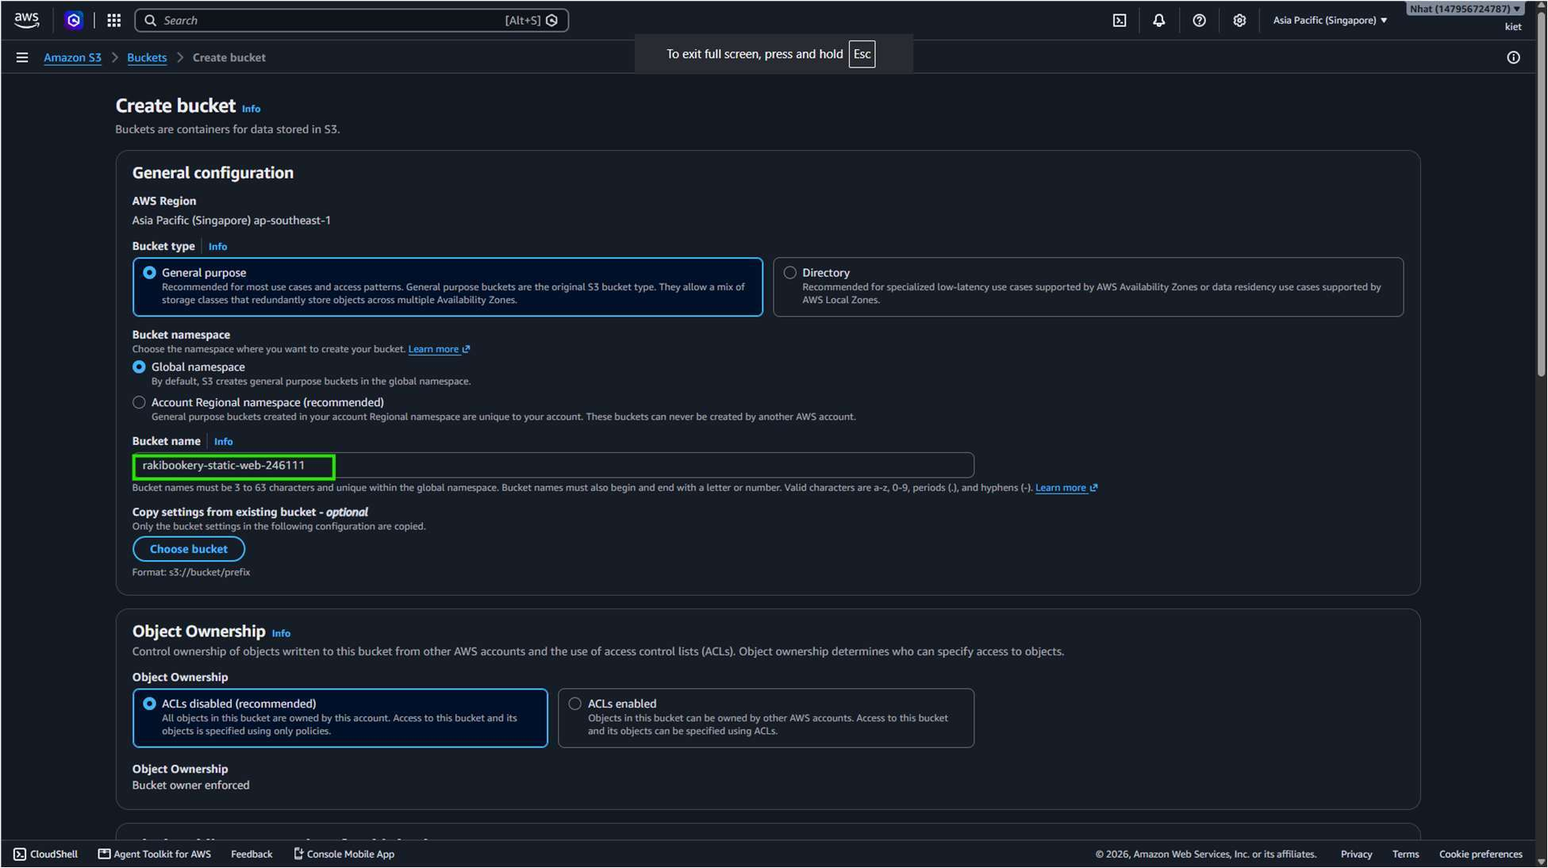
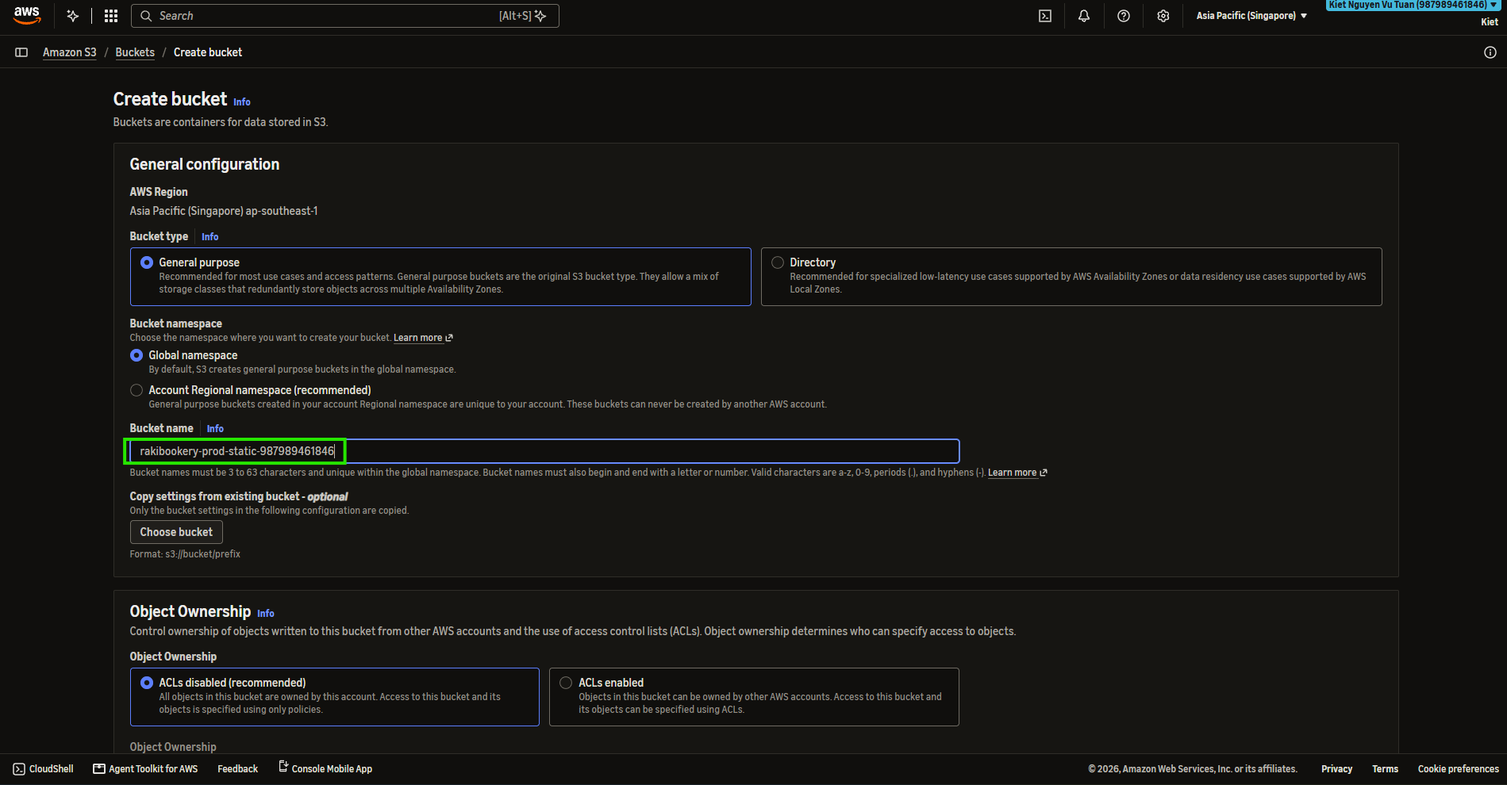
fix 5.3.3

Changed region(s): [[0.0, 0.0, 1.0, 1.0]]

diff --git a/content/5-Workshop/5.3-Infrastructure/5.3.3-Set-Up-S3/_index.vi.md b/content/5-Workshop/5.3-Infrastructure/5.3.3-Set-Up-S3/_index.vi.md
@@ -8,45 +8,58 @@ pre : " <b> 5.3.3 </b> "
 
 ### Mục tiêu
 
-Tổ chức lưu trữ trên Amazon S3 cho ba loại dữ liệu của RakiBookery tại Singapore (`ap-southeast-1`).
+Nhóm cấu hình Amazon S3 tại Singapore (`ap-southeast-1`) để lưu tệp tĩnh, ảnh và nhật ký của RakiBookery. Nhóm dùng ba bucket riêng để đặt quyền truy cập phù hợp với từng loại dữ liệu.
 
-### Cần chuẩn bị
+## Kiến trúc tổng quan
 
-Dùng danh tính triển khai đã được duyệt ở [mục 5.3.1]({{< relref "/5-Workshop/5.3-Infrastructure/5.3.1-Set-Up-IAM/" >}}). Khi dựng lại môi trường, chọn tên bucket còn khả dụng tại thời điểm tạo.
+- **Media** (`rakibookery-prod-media-987989461846`) lưu ảnh của nhà sách. Bucket bật Versioning để giữ các phiên bản trước của object khi ghi đè.
+- **Static** (`rakibookery-prod-static-987989461846`) lưu tài nguyên tĩnh của website. CloudFront có thể đọc tệp qua Origin Access Control (OAC) và bucket policy. Phần cấu hình origin được trình bày ở [mục 5.4.4]({{< relref "/5-Workshop/5.4-Deployment/5.4.4-Cloudfont-and-R53/" >}}).
+- **Logs** (`rakibookery-prod-logs-987989461846`) dành cho tệp nhật ký. Tệp xuất hiện khi dịch vụ gửi log đã được cấu hình đích và cấp quyền ghi.
 
-Nhóm dùng bucket riêng vì mỗi loại tệp có mục đích và thành phần truy cập khác nhau. CloudFront đọc tệp tĩnh qua OAC. Hàm xử lý ảnh đọc ảnh tải lên và ghi ảnh thu nhỏ trong bucket Media. Bucket Logs nhận tệp từ các nguồn ghi log đã được bật. Trước khi tích hợp, nhóm đối chiếu tên bucket thực tế trong Console của dự án.
+## 1. Tạo các bucket
 
-### Cấu hình triển khai
+Dùng danh tính triển khai có quyền phù hợp ở [mục 5.3.1]({{< relref "/5-Workshop/5.3-Infrastructure/5.3.1-Set-Up-IAM/" >}}). Trong **Amazon S3 → General purpose buckets → Create bucket**, chọn Region **Asia Pacific (Singapore)**, loại **General purpose** và **Global namespace** như trong ảnh. Nhập tên từng bucket. Khi dựng lại, dùng tên còn khả dụng trong namespace đã chọn. [Tài liệu AWS về cách đặt tên bucket](https://docs.aws.amazon.com/AmazonS3/latest/userguide/bucketnamingrules.html)
 
-1. Trong **S3 → General purpose buckets**, tạo `rakibookery-static-web-246111` cho tài nguyên tĩnh, `rakibookery-logs-246111` cho nhật ký và `rakibookery-media-246111` cho ảnh bìa sách, banner và tệp media.
-2. Chọn **General purpose**, giữ **ACLs disabled (Bucket owner enforced)** và **Block all public access** cho cả ba bucket.
+Ở **Object Ownership**, giữ **ACLs disabled (Bucket owner enforced)** để quản lý quyền bằng policy. Giữ **Block all public access** để chặn truy cập công khai trực tiếp. CloudFront có thể đọc bucket Static theo bucket policy ở bước tích hợp. [Tài liệu AWS về Object Ownership](https://docs.aws.amazon.com/AmazonS3/latest/userguide/about-object-ownership.html)
 
-![Tạo bucket Media ở Singapore](../../../../images/5-Workshop/5.3-Infrastructure/5.3.3-Set-Up-S3/01-s3-media-creation.png)
+### Bucket Media
 
-![Tên bucket Static Web, Region Singapore và ACLs disabled trong báo cáo nguồn](../../../../images/5-Workshop/5.3-Infrastructure/5.3.3-Set-Up-S3/02-s3-static-creation.png)
+Nhập `rakibookery-prod-media-987989461846`. Màn hình tạo bucket ghi nhận Region Singapore và **ACLs disabled**. Trước khi lưu cấu hình của Media, chọn thêm **Bucket Versioning → Enable** như ở bước 2.
 
-![Tên bucket Logs và ACLs disabled trong báo cáo nguồn](../../../../images/5-Workshop/5.3-Infrastructure/5.3.3-Set-Up-S3/03-s3-logs-creation.png)
+![Tạo bucket Media ở Singapore với ACLs disabled](../../../../images/5-Workshop/5.3-Infrastructure/5.3.3-Set-Up-S3/01-s3-media-creation.png)
 
-3. Bật **Bucket Versioning** cho Media để giữ các phiên bản object khi ghi đè.
+### Bucket Static
 
-![Block all public access và Versioning được chọn cho Media](../../../../images/5-Workshop/5.3-Infrastructure/5.3.3-Set-Up-S3/04-s3-media-versioning.png)
+Nhập `rakibookery-prod-static-987989461846` và giữ **ACLs disabled**. Sau khi tạo, dùng tên bucket này khi kiểm tra S3 origin của CloudFront.
 
-Danh sách bucket trong phần triển khai CloudFront ghi nhận đủ ba bucket RakiBookery tại Singapore. Các tên này khớp với báo cáo S3 và bucket Media dùng cho hàm xử lý ảnh.
+![Tên bucket Static và Object Ownership trong màn hình Create bucket](../../../../images/5-Workshop/5.3-Infrastructure/5.3.3-Set-Up-S3/02-s3-static-creation.png)
 
-![Danh sách đã lưu có ba bucket Static Web, Logs và Media tại Singapore](../../../../images/5-Workshop/5.3-Infrastructure/5.3.3-Set-Up-S3/05-s3-project-bucket-list.png)
+### Bucket Logs
 
+Nhập `rakibookery-prod-logs-987989461846` và giữ **ACLs disabled** theo cấu hình trong ảnh. Bucket này là đích lưu trữ. Cấu hình gửi log được thực hiện ở dịch vụ tạo log.
 
-### Kết quả và kiểm tra
+![Tên bucket Logs và Object Ownership trong màn hình Create bucket](../../../../images/5-Workshop/5.3-Infrastructure/5.3.3-Set-Up-S3/03-s3-logs-creation.png)
 
-Báo cáo S3 có các màn hình tạo ba bucket và thao tác chọn Versioning cho Media. Khi nghiệm thu, đối chiếu **Permissions** và **Properties**. Kiểm tra sau tích hợp bằng cách mở tệp tĩnh qua CloudFront, xác nhận ảnh tải lên Media và log xuất hiện trong Logs khi dịch vụ gửi log đã được cấu hình.
+## 2. Bật và xác nhận Versioning cho Media
 
-Tài liệu kiểm thử Lambda còn ghi nhận các tệp đã tải vào `images/` của bucket Media. Ảnh này xác nhận bucket đã lưu object tại thời điểm chạy thử.
+Trong màn hình **Create bucket** của Media, ảnh ghi nhận **Block all public access** đang được chọn và **Bucket Versioning** đặt thành **Enable**.
 
-![Các object ảnh đã được tải vào bucket Media của RakiBookery](../../../../images/5-Workshop/5.3-Infrastructure/5.3.3-Set-Up-S3/06-s3-media-uploaded-objects.png)
+![Chọn Block all public access và Enable Versioning khi tạo bucket Media](../../../../images/5-Workshop/5.3-Infrastructure/5.3.3-Set-Up-S3/04-s3-media-versioning.png)
 
-Dùng danh tính đã được duyệt để tải lần lượt hai tệp thử lên cùng object key trong bucket Media. Trong **Objects**, bật **Show versions** và kiểm tra S3 hiển thị hai version ID. Với tệp tĩnh, kiểm tra object có trong bucket rồi truy cập qua CloudFront sau mục 5.4.4. Với bucket Logs, kiểm tra tệp log thật sau khi cấu hình dịch vụ gửi log.
+## 3. Kiểm tra kết quả
 
+Danh sách **General purpose buckets** hiển thị đủ ba bucket Media, Static và Logs ở `ap-southeast-1`.
 
-### Kết luận
+![Danh sách ba bucket Media, Static và Logs ở Singapore](../../../../images/5-Workshop/5.3-Infrastructure/5.3.3-Set-Up-S3/05-s3-project-bucket-list.png)
 
-Ba bucket đảm nhiệm ba luồng dữ liệu riêng. Cấu hình chặn truy cập công khai được duy trì, và Versioning hỗ trợ lấy lại phiên bản trước của tệp media.
+Sau khi tạo, nhóm mở **Media → Properties → Bucket Versioning**. Console hiển thị **Enabled**, xác nhận cấu hình đã được lưu. Khi tải nội dung mới lên cùng object key, S3 tạo một phiên bản mới và giữ phiên bản trước. [Tài liệu AWS về S3 Versioning](https://docs.aws.amazon.com/AmazonS3/latest/userguide/Versioning.html)
+
+![Trang Properties của bucket Media ghi Bucket Versioning Enabled](../../../../images/5-Workshop/5.3-Infrastructure/5.3.3-Set-Up-S3/06-s3-media-versioning-enabled.png)
+
+- **Media.** Để kiểm tra Versioning, tải hai tệp có nội dung khác nhau lên cùng key thử, chẳng hạn `versioning-check/sample.txt`. Bật **Show versions** trong tab **Objects** và kiểm tra hai version ID. Kiểm tra trigger xử lý ảnh ở [mục 5.5.2]({{< relref "/5-Workshop/5.5-Serverless/5.5.2-Lambda-Functions/" >}}).
+- **Static.** Sau khi gắn origin, mở một tệp tĩnh qua URL CloudFront để kiểm tra quyền đọc.
+- **Logs.** Sau khi cấu hình dịch vụ gửi log, mở bucket Logs và kiểm tra object ở prefix đã chọn.
+
+## Kết luận
+
+Nhóm đã tạo ba bucket S3 của RakiBookery tại Singapore. Màn hình **Properties** xác nhận bucket Media đã bật Versioning. Các bucket được dùng cho từng nhóm dữ liệu và là đầu vào khi cấu hình CloudFront, xử lý ảnh và chuyển nhật ký.

diff --git a/content/5-Workshop/5.3-Infrastructure/5.3.3-Set-Up-S3/_index.md b/content/5-Workshop/5.3-Infrastructure/5.3.3-Set-Up-S3/_index.md
@@ -8,44 +8,58 @@ pre : " <b> 5.3.3 </b> "
 
 ### Objective
 
-Our goal is to use Amazon S3 to store three types of RakiBookery data in Singapore (`ap-southeast-1`).
+We set up Amazon S3 in Singapore (`ap-southeast-1`) to store static files, images, and logs for RakiBookery. We use three separate buckets so each type of data can have the access it needs.
 
-### What we need
+## Architecture overview
 
-Use the approved deployment identity from [section 5.3.1]({{< relref "/5-Workshop/5.3-Infrastructure/5.3.1-Set-Up-IAM/" >}}). When setting up a new environment, choose bucket names that are available when you create the buckets.
+- **Media** (`rakibookery-prod-media-987989461846`) stores bookstore images. The bucket uses Versioning to keep earlier versions when we replace an object.
+- **Static** (`rakibookery-prod-static-987989461846`) stores static files for the website. CloudFront can read the files through Origin Access Control (OAC) and a bucket policy. The origin setup is in [section 5.4.4]({{< relref "/5-Workshop/5.4-Deployment/5.4.4-Cloudfont-and-R53/" >}}).
+- **Logs** (`rakibookery-prod-logs-987989461846`) is for log files. Files appear after we configure the service that sends the logs and give it permission to write.
 
-We use separate buckets because each type of file has a different use and needs different access. CloudFront reads static files through OAC. The image function reads uploads and writes thumbnails in the Media bucket. The Logs bucket stores logs from the sources that we turn on. Check the real bucket names in the project's Console before connecting any of these services.
+## 1. Create the buckets
 
-### Deployment setup
+Use a deployment identity with the permissions described in [section 5.3.1]({{< relref "/5-Workshop/5.3-Infrastructure/5.3.1-Set-Up-IAM/" >}}). In **Amazon S3 → General purpose buckets → Create bucket**, select **Asia Pacific (Singapore)**, **General purpose**, and **Global namespace** as shown in the screenshots. Enter each bucket name. If you repeat the setup, use a name that is available in the selected namespace. [AWS guide to bucket naming rules](https://docs.aws.amazon.com/AmazonS3/latest/userguide/bucketnamingrules.html)
 
-1. In **S3 → General purpose buckets**, create `rakibookery-static-web-246111` for static files, `rakibookery-logs-246111` for logs, and `rakibookery-media-246111` for book covers, banners, and other media files.
-2. Choose **General purpose**. Keep **ACLs disabled (Bucket owner enforced)** and **Block all public access** for all three buckets.
+Under **Object Ownership**, keep **ACLs disabled (Bucket owner enforced)** so access is managed through policies. Keep **Block all public access** on to block direct public access. CloudFront can read the Static bucket through the bucket policy after integration. [AWS guide to Object Ownership](https://docs.aws.amazon.com/AmazonS3/latest/userguide/about-object-ownership.html)
 
-![Creating the Media bucket in Singapore](../../../images/5-Workshop/5.3-Infrastructure/5.3.3-Set-Up-S3/01-s3-media-creation.png)
+### Media bucket
 
-![Static Web bucket name, Singapore Region, and ACLs disabled in the source report](../../../images/5-Workshop/5.3-Infrastructure/5.3.3-Set-Up-S3/02-s3-static-creation.png)
+Enter `rakibookery-prod-media-987989461846`. The creation screen shows the Singapore Region and **ACLs disabled**. Before saving the Media bucket, select **Bucket Versioning → Enable** as shown in step 2.
 
-![Logs bucket name and ACLs disabled in the source report](../../../images/5-Workshop/5.3-Infrastructure/5.3.3-Set-Up-S3/03-s3-logs-creation.png)
+![Creating the Media bucket in Singapore with ACLs disabled](../../../images/5-Workshop/5.3-Infrastructure/5.3.3-Set-Up-S3/01-s3-media-creation.png)
 
-3. Turn on **Bucket Versioning** for Media so earlier versions stay available when you replace an object.
+### Static bucket
 
-![Block all public access and Versioning for the Media bucket](../../../images/5-Workshop/5.3-Infrastructure/5.3.3-Set-Up-S3/04-s3-media-versioning.png)
+Enter `rakibookery-prod-static-987989461846` and keep **ACLs disabled**. After creating the bucket, use this name when checking the CloudFront S3 origin.
 
-The bucket list from the CloudFront setup shows all three RakiBookery buckets in Singapore. Their names match the S3 report and the Media bucket used by the image function.
+![Static bucket name and Object Ownership on the Create bucket screen](../../../images/5-Workshop/5.3-Infrastructure/5.3.3-Set-Up-S3/02-s3-static-creation.png)
 
-![The saved bucket list shows Static Web, Logs, and Media in Singapore](../../../images/5-Workshop/5.3-Infrastructure/5.3.3-Set-Up-S3/05-s3-project-bucket-list.png)
+### Logs bucket
 
-### Results and checks
+Enter `rakibookery-prod-logs-987989461846` and keep **ACLs disabled** as shown. This bucket is the storage destination. Set up log delivery in the service that creates the logs.
 
-The S3 report shows the creation forms for the three buckets and the Versioning option selected for Media. For the final check, review **Permissions** and **Properties**. After you connect the services, open a static file through CloudFront and check that uploaded images appear in Media. Check that logs appear in Logs after you set up the service that sends them.
+![Logs bucket name and Object Ownership on the Create bucket screen](../../../images/5-Workshop/5.3-Infrastructure/5.3.3-Set-Up-S3/03-s3-logs-creation.png)
 
-The Lambda test document also shows uploaded files under `images/` in the Media bucket. This confirms that the bucket had stored objects at the time of the test.
+## 2. Enable and check Versioning for Media
 
-![Uploaded image objects in the RakiBookery Media bucket](../../../images/5-Workshop/5.3-Infrastructure/5.3.3-Set-Up-S3/06-s3-media-uploaded-objects.png)
+On the Media bucket creation screen, **Block all public access** is selected and **Bucket Versioning** is set to **Enable**.
 
-Use an approved identity to upload two test files in sequence with the same object key in the Media bucket. In **Objects**, turn on **Show versions** and check that S3 shows two version IDs. For a static file, check first that it exists in the bucket. Then request it through CloudFront after section 5.4.4. For the Logs bucket, check for a real log object after setting up the service that sends logs.
+![Block all public access and Enable Versioning selected when creating the Media bucket](../../../images/5-Workshop/5.3-Infrastructure/5.3.3-Set-Up-S3/04-s3-media-versioning.png)
 
+## 3. Check the result
 
-### Conclusion
+The **General purpose buckets** list shows all three buckets, Media, Static, and Logs, in `ap-southeast-1`.
 
-We use each bucket for a different type of file. We keep public access blocked. With Versioning, we can recover an earlier version of a media file.
+![Media, Static, and Logs buckets listed in Singapore](../../../images/5-Workshop/5.3-Infrastructure/5.3.3-Set-Up-S3/05-s3-project-bucket-list.png)
+
+After creating the bucket, we open **Media → Properties → Bucket Versioning**. The console shows **Enabled**, which confirms the setting was saved. When we upload new content with the same object key, S3 creates a new version and keeps the earlier one. [AWS guide to S3 Versioning](https://docs.aws.amazon.com/AmazonS3/latest/userguide/Versioning.html)
+
+![Media bucket Properties showing Bucket Versioning as Enabled](../../../images/5-Workshop/5.3-Infrastructure/5.3.3-Set-Up-S3/06-s3-media-versioning-enabled.png)
+
+- **Media.** To check Versioning, upload two files with different content to the same test key, such as `versioning-check/sample.txt`. Turn on **Show versions** in **Objects** and check for two version IDs. See [section 5.5.2]({{< relref "/5-Workshop/5.5-Serverless/5.5.2-Lambda-Functions/" >}}) for the image processing trigger.
+- **Static.** After connecting the origin, open a static file through the CloudFront URL to check read access.
+- **Logs.** After setting up log delivery, open the Logs bucket and look for an object under the selected prefix.
+
+## Conclusion
+
+We created the three RakiBookery S3 buckets in Singapore. The **Properties** screen confirms that Versioning is on for Media. Each bucket stores a different type of data and supports the setup for CloudFront, image processing, or log delivery.

diff --git a/content/5-Workshop/5.5-Serverless/5.5.2-Lambda-Functions/_index.vi.md b/content/5-Workshop/5.5-Serverless/5.5.2-Lambda-Functions/_index.vi.md
@@ -26,13 +26,15 @@ Với mỗi hàm, nhóm đối chiếu tên handler, runtime, execution role và
 
 ![Execution role và phần quyền ghi log của raki-image-processor](../../../../images/5-Workshop/5.5-Serverless/5.5.2-Lambda-Functions/03-image-permissions.png)
 
-**2. Gắn trigger S3.** Trong **Configuration → Triggers → Add trigger**, chọn bucket `rakibookery-media-246111`, sự kiện `s3:ObjectCreated:Put` và prefix `images/`. Hàm dùng Pillow để thu nhỏ ảnh trong khung tối đa `300 × 300`, giữ tỷ lệ và ghi đầu ra vào `thumbnails/`. Trigger chỉ nhận key thuộc `images/`. Các tệp được ghi trong `thumbnails/` nằm ngoài bộ lọc này. [AWS về S3 trigger](https://docs.aws.amazon.com/lambda/latest/dg/with-s3.html).
+**2. Gắn trigger S3.** Vào **Configuration → Triggers → Add trigger**. Chọn bucket Media cùng Region với hàm, sự kiện **PUT** (`s3:ObjectCreated:Put`) và prefix `images/`. Hàm dùng Pillow để thu nhỏ ảnh trong khung tối đa `300 × 300`, giữ tỷ lệ và ghi đầu ra vào `thumbnails/`. Prefix đầu ra nằm ngoài bộ lọc của trigger, nên ảnh thu nhỏ không kích hoạt lại hàm. [Tài liệu AWS về trigger S3](https://docs.aws.amazon.com/lambda/latest/dg/with-s3.html)
+
+Các ảnh dưới đây ghi lại lần cấu hình với bucket `rakibookery-prod-media-987989461846`. Khi áp dụng cho bucket Media ở [mục 5.3.3]({{< relref "/5-Workshop/5.3-Infrastructure/5.3.3-Set-Up-S3/" >}}), chọn `rakibookery-prod-media-987989461846`. Kiểm tra quyền gọi hàm của bucket và quyền đọc, ghi object của execution role trên đúng bucket.
 
 ![Chọn bucket Media và sự kiện PUT cho trigger S3](../../../../images/5-Workshop/5.5-Serverless/5.5.2-Lambda-Functions/04-s3-put-trigger.png)
 
 ![Trigger S3 đã được gắn với raki-image-processor](../../../../images/5-Workshop/5.5-Serverless/5.5.2-Lambda-Functions/05-s3-trigger-attached.png)
 
-**3. Thử với ảnh sách.** Nhóm em tải một ảnh JPG lên `images/` và kiểm tra object tương ứng trong `thumbnails/`. Các ảnh còn ghi nhận log stream tại `/aws/lambda/raki-image-processor`, nơi nhóm có thể đối chiếu lần gọi theo thời gian.
+**3. Thử với ảnh sách.** Trong lần thử ghi lại dưới đây, nhóm tải một ảnh JPG lên `images/` của `rakibookery-prod-media-987989461846` và kiểm tra object tương ứng trong `thumbnails/`. Nhóm dùng log stream tại `/aws/lambda/raki-image-processor` để đối chiếu thời gian gọi hàm.
 
 ![Ảnh thử nghiệm được tải lên prefix images/](../../../../images/5-Workshop/5.5-Serverless/5.5.2-Lambda-Functions/06-s3-source-image.png)
 
@@ -41,6 +43,8 @@ Với mỗi hàm, nhóm đối chiếu tên handler, runtime, execution role và
 ![S3 hiển thị ảnh thu nhỏ trong prefix thumbnails/](../../../../images/5-Workshop/5.5-Serverless/5.5.2-Lambda-Functions/08-s3-generated-thumbnail.png)
 
 ![Log group raki-image-processor trong CloudWatch trích từ tài liệu Lambda](../../../../images/5-Workshop/5.5-Serverless/5.5.2-Lambda-Functions/14-image-log-group.png)
+
+Để kiểm thử trên bucket Media ở mục 5.3.3, dùng thao tác **PUT** để tải ảnh JPG lên một key mới dưới `images/`. Kiểm tra object tương ứng trong `thumbnails/` và xác nhận kích thước ảnh nằm trong giới hạn `300 × 300`. Dùng thời điểm tải và object key để đối chiếu log của Lambda.
 
 ## Hàm nhận thông báo `raki-sns-handler`
 

diff --git a/content/5-Workshop/5.5-Serverless/5.5.2-Lambda-Functions/_index.md b/content/5-Workshop/5.5-Serverless/5.5.2-Lambda-Functions/_index.md
@@ -26,13 +26,15 @@ For each function, check the handler name, runtime, execution role, and log grou
 
 ![Execution role and log permissions for raki-image-processor](../../../images/5-Workshop/5.5-Serverless/5.5.2-Lambda-Functions/03-image-permissions.png)
 
-**2. Add an S3 trigger.** In **Configuration → Triggers → Add trigger**, select the `rakibookery-media-246111` bucket, the `s3:ObjectCreated:Put` event, and the `images/` prefix. The function uses Pillow to make an image no larger than `300 × 300` pixels. It keeps the original proportions and saves the result in `thumbnails/`. The trigger only accepts keys under `images/`. Files written under `thumbnails/` are outside this filter. [AWS guide to the S3 trigger](https://docs.aws.amazon.com/lambda/latest/dg/with-s3.html).
+**2. Add an S3 trigger.** Go to **Configuration → Triggers → Add trigger**. Select a Media bucket in the same Region as the function, the **PUT** event (`s3:ObjectCreated:Put`), and the `images/` prefix. The function uses Pillow to make an image no larger than `300 × 300` pixels. It keeps the original proportions and saves the result under `thumbnails/`. This output prefix is outside the trigger filter, so a thumbnail does not start the function again. [AWS guide to S3 triggers](https://docs.aws.amazon.com/lambda/latest/dg/with-s3.html)
+
+The screenshots below show the setup with the `rakibookery-prod-media-987989461846` bucket. For the Media bucket in [section 5.3.3]({{< relref "/5-Workshop/5.3-Infrastructure/5.3.3-Set-Up-S3/" >}}), select `rakibookery-prod-media-987989461846`. Check that the bucket can invoke the function and that the execution role can read and write objects in the right bucket.
 
 ![Select the Media bucket and the PUT event for the S3 trigger](../../../images/5-Workshop/5.5-Serverless/5.5.2-Lambda-Functions/04-s3-put-trigger.png)
 
 ![The S3 trigger is connected to raki-image-processor](../../../images/5-Workshop/5.5-Serverless/5.5.2-Lambda-Functions/05-s3-trigger-attached.png)
 
-**3. Test with a book image.** We uploaded a JPG under `images/` and checked for the new object under `thumbnails/`. The screenshots also show log streams in `/aws/lambda/raki-image-processor`. We can use them to check when the function ran.
+**3. Test with a book image.** In the test shown below, we uploaded a JPG under `images/` in `rakibookery-prod-media-987989461846` and checked for the matching object under `thumbnails/`. We use a log stream in `/aws/lambda/raki-image-processor` to check when the function ran.
 
 ![Test image uploaded under images/](../../../images/5-Workshop/5.5-Serverless/5.5.2-Lambda-Functions/06-s3-source-image.png)
 
@@ -42,7 +44,7 @@ For each function, check the handler name, runtime, execution role, and log grou
 
 ![CloudWatch log group for raki-image-processor from the Lambda source document](../../../images/5-Workshop/5.5-Serverless/5.5.2-Lambda-Functions/14-image-log-group.png)
 
-Use an image with a new test key under `images/`. Make sure the upload uses PUT because the trigger is set to that event. Check the matching file in `thumbnails/` and confirm its dimensions fit the `300 × 300` limit. Use the key and the upload time to find the matching Lambda log.
+To test the Media bucket in section 5.3.3, use **PUT** to upload a JPG with a new key under `images/`. Check the matching object in `thumbnails/` and confirm that its dimensions fit the `300 × 300` limit. Use the upload time and the object key to find the matching Lambda log.
 
 
 ## Notification function `raki-sns-handler`

diff --git a/content/5-Workshop/5.3-Infrastructure/5.3.1-Set-Up-IAM/_index.md b/content/5-Workshop/5.3-Infrastructure/5.3.1-Set-Up-IAM/_index.md
@@ -48,7 +48,7 @@ The deployment identity registers the task definition and passes approved roles 
 
 **5.** Give the deployment identity `iam:PassRole` only for approved role ARNs. Set `iam:PassedToService` to `ecs-tasks.amazonaws.com`. [AWS IAM PassRole](https://docs.aws.amazon.com/IAM/latest/UserGuide/id_roles_use_passrole.html).
 
-![Tab Permissions](../../../../images/5-Workshop/5.3-Infrastructure/5.3.1-Set-Up-IAM/04-iam-role-ecs.png)
+![Tab Permissions](../../../images/5-Workshop/5.3-Infrastructure/5.3.1-Set-Up-IAM/04-iam-role-ecs.png)
 
 #### 3. Prepare the secret and add it to the task definition
 
